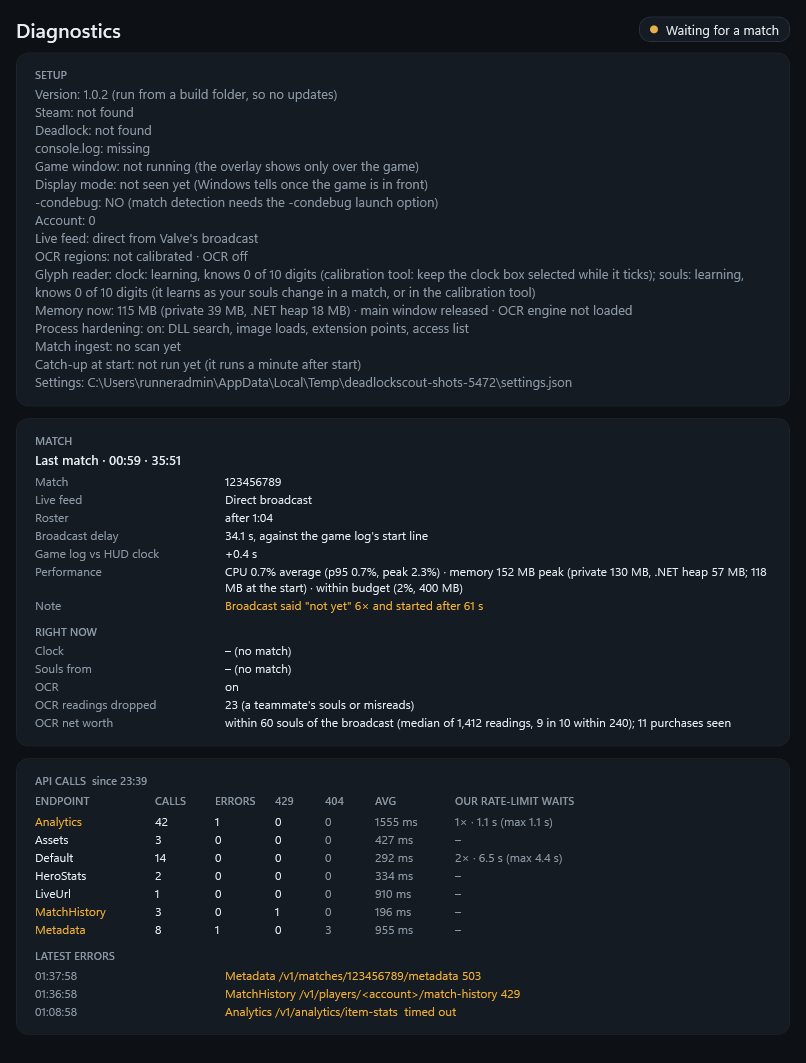
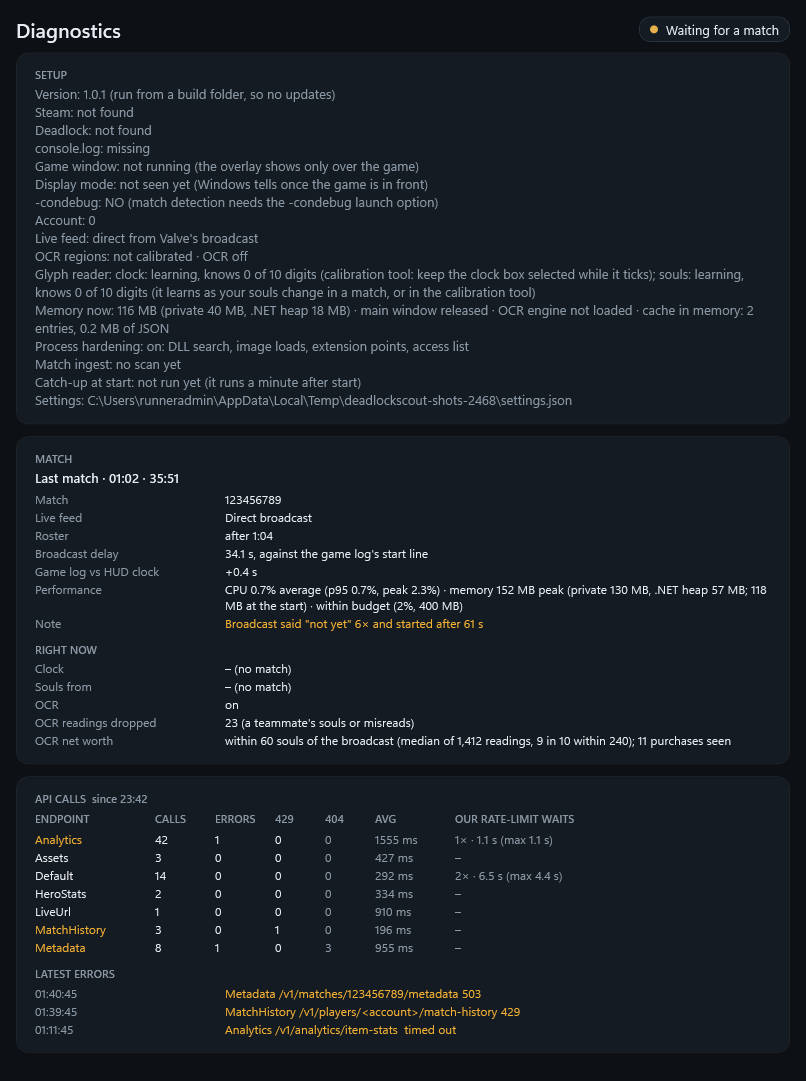
1.0.3: a memory budget for the cache, so the app no longer grows match by match (#205)
* Cache: a memory layer with a budget, so the app no longer grows match by match

Nov 18: the .NET heap peaked at 67, 90 and 131 MB over three matches and
each match started 20-60 MB larger than the one before (back to 277 MB
after a restart). The layered cache kept every entry it ever read or
wrote in memory for the whole session, most of them for ever (match
details, curves, item tables, player stats), with no size limit.

- Each memory entry weighs its JSON's length; the layer holds 16 million
  characters at most and drops a quarter when full; an entry unused for
  15 minutes leaves memory. SQLite keeps everything, so nothing is
  fetched again.
- Diagnostics' memory line says what the cache holds in memory.

Claude-Session: https://claude.ai/code/session_01LSDkBn23Na5vMSKWLtGadZ

* Update app screenshots

---------

diff --git a/src/DeadlockScout.Api/Caching/LayeredCache.cs b/src/DeadlockScout.Api/Caching/LayeredCache.cs
@@ -12,6 +12,12 @@ namespace DeadlockScout.Api.Caching;
 /// <see cref="ICache"/> over an in-process <see cref="IMemoryCache"/> in front of <see cref="SqliteCacheStore"/>.
 /// Concurrent callers for one key share a single in-flight factory; stale-while-revalidate serves an expired entry at
 /// once and refreshes it in the background.
+/// <para>
+/// The memory layer is bounded (1.0.3): each entry weighs its JSON's length, the layer holds at most
+/// <see cref="MemoryBudget"/> of it, and an entry unused for <see cref="MemoryIdle"/> leaves memory (SQLite keeps it, so
+/// nothing is fetched again). Before, every entry stayed for the whole session, most of them for ever: on Nov 18 the
+/// .NET heap peaked at 67, 90 and 131 MB over three matches and the app started each match 20–60 MB larger.
+/// </para>
 /// </summary>
 public sealed class LayeredCache : ICache, IDisposable
 {
@@ -26,7 +32,13 @@ public sealed class LayeredCache : ICache, IDisposable
         public bool IsFresh(DateTimeOffset now) => ExpiresAt is null || ExpiresAt > now;
     }
 
+    /// <summary>The memory layer's budget, in characters of JSON (the objects take about two to three times that).</summary>
+    public const long MemoryBudget = 16_000_000;
+    /// <summary>How long an entry nobody reads stays in memory.</summary>
+    public static readonly TimeSpan MemoryIdle = TimeSpan.FromMinutes(15);
+
     private readonly IMemoryCache _memory;
+    private readonly MemoryCache? _own;
     private readonly SqliteCacheStore _store;
     private readonly IClock _clock;
     private readonly ILogger _log;
@@ -37,7 +49,8 @@ public sealed class LayeredCache : ICache, IDisposable
     {
         _store = store;
         _clock = clock;
-        _memory = memory ?? new MemoryCache(new MemoryCacheOptions { SizeLimit = null });
+        _own = memory is null ? new MemoryCache(new MemoryCacheOptions { SizeLimit = MemoryBudget, CompactionPercentage = 0.25, TrackStatistics = true }) : null;
+        _memory = memory ?? _own!;
         _log = log ?? NullLogger<LayeredCache>.Instance;
     }
 
@@ -63,8 +76,9 @@ public sealed class LayeredCache : ICache, IDisposable
     {
         var now = _clock.UtcNow;
         var env = new Envelope(now, ttl is null ? null : now + ttl.Value, value);
-        _memory.Set(key, env, MemoryOptions(ttl));
-        await _store.SetAsync(new CacheEntry(key, JsonSerializer.Serialize(value, Json), env.FetchedAt, env.ExpiresAt, null), ct).ConfigureAwait(false);
+        var json = JsonSerializer.Serialize(value, Json);
+        _memory.Set(key, env, MemoryOptions(ttl, json.Length));
+        await _store.SetAsync(new CacheEntry(key, json, env.FetchedAt, env.ExpiresAt, null), ct).ConfigureAwait(false);
     }
 
     public async Task<T> GetOrCreateAsync<T>(string key, TimeSpan? ttl, Func<CancellationToken, Task<T>> factory, bool staleWhileRevalidate, CancellationToken ct)
@@ -142,17 +156,22 @@ public sealed class LayeredCache : ICache, IDisposable
             return null;
         }
         env = new Envelope(row.FetchedAt, row.ExpiresAt, value);
-        _memory.Set(key, env, MemoryOptions(row.ExpiresAt is null ? null : row.ExpiresAt - _clock.UtcNow));
+        _memory.Set(key, env, MemoryOptions(row.ExpiresAt is null ? null : row.ExpiresAt - _clock.UtcNow, row.Json.Length));
         return env;
     }
 
-    private static MemoryCacheEntryOptions MemoryOptions(TimeSpan? ttl)
+    private static MemoryCacheEntryOptions MemoryOptions(TimeSpan? ttl, long size)
     {
-        var o = new MemoryCacheEntryOptions();
+        var o = new MemoryCacheEntryOptions { Size = Math.Max(1, size), SlidingExpiration = MemoryIdle };
         // Keep expired entries in memory a little longer so stale-while-revalidate does not have to hit SQLite.
         if (ttl is { } t) o.AbsoluteExpirationRelativeToNow = (t < TimeSpan.Zero ? TimeSpan.Zero : t) + TimeSpan.FromMinutes(5);
         return o;
     }
+
+    /// <summary>"cache in memory: 412 entries, 9.3 MB of JSON" for Diagnostics' memory line; null for an injected memory cache.</summary>
+    public string? MemoryUse => _own?.GetCurrentStatistics() is { } s
+        ? $"cache in memory: {s.CurrentEntryCount} entries, {(s.CurrentEstimatedSize ?? 0) / 1_000_000.0:0.0} MB of JSON"
+        : null;
 
     public void Dispose() => (_memory as IDisposable)?.Dispose();
 }

diff --git a/src/DeadlockScout.App/Services/AppShell.cs b/src/DeadlockScout.App/Services/AppShell.cs
@@ -85,8 +85,9 @@ public sealed class AppShell
                     MatchHistoryService historyService, ItemIcons icons, MatchSession session, CompositeBenchmark benchmark, BuildHintService builds,
                     AudioCuePlayer audio, DiagnosticsLog diagnostics, OcrSoulSource ocrSource, OcrJumpGuard guard, CounterItemService counters,
                     SoulSourceService sources, SaltIngest ingest, UpdateService updates, GlyphStore glyphStore, ILogger<AppShell> log, MarkStore marks,
-                    PostMatchCoordinator coordinator, PlayedMatches played)
+                    PostMatchCoordinator coordinator, PlayedMatches played, DeadlockScout.Core.Abstractions.ICache? cache = null)
     {
+        _cache = cache;
         _marks = marks;
         _coordinator = coordinator;
         _played = played;
@@ -201,13 +202,16 @@ public sealed class AppShell
     /// a player can see what a window, OCR or a match costs by switching it on and off with Diagnostics open (the 1.0
     /// budget is 400 MB).
     /// </summary>
+    private readonly DeadlockScout.Core.Abstractions.ICache? _cache;
+
     private string MemoryNow()
     {
         using var self = Process.GetCurrentProcess();
         static string Mb(long bytes) => $"{bytes / (1024 * 1024)} MB";
         string main = _main is null ? " · main window released" : " · main window open";
         string ocr = WindowsOcr is WindowsMediaOcrEngine w ? (w.Loaded ? " · OCR engine loaded" : " · OCR engine not loaded") : "";
-        return $"{Mb(self.WorkingSet64)} (private {Mb(self.PrivateMemorySize64)}, .NET heap {Mb(GC.GetTotalMemory(false))}){main}{ocr}";
+        string cache = _cache?.MemoryUse is { } c ? $" · {c}" : "";
+        return $"{Mb(self.WorkingSet64)} (private {Mb(self.PrivateMemorySize64)}, .NET heap {Mb(GC.GetTotalMemory(false))}){main}{ocr}{cache}";
     }
 
     /// <summary>"0.1.4 (installed) · update check 14:02: up to date": what runs, and what the updater last found.</summary>

diff --git a/tests/DeadlockScout.Tests/Api/LayeredCacheTests.cs b/tests/DeadlockScout.Tests/Api/LayeredCacheTests.cs
@@ -24,6 +24,22 @@ public class LayeredCacheTests : IDisposable
     }
 
     [Fact]
+    public async Task The_memory_layer_keeps_to_its_budget_and_the_rest_is_read_from_sqlite()
+    {
+        // Twenty entries of a million characters each: the memory layer (16 million) cannot hold them all, and before
+        // 1.0.3 it held everything for the whole session.
+        using var store = Store();
+        using var cache = new LayeredCache(store, _clock);
+        var big = new string('x', 1_000_000);
+        for (int i = 0; i < 20; i++) await cache.SetAsync($"k{i}", big, null, default);
+        var use = cache.MemoryUse!;
+        int entries = int.Parse(System.Text.RegularExpressions.Regex.Match(use, @"(\d+) entries").Groups[1].Value);
+        Assert.InRange(entries, 1, 16);
+        Assert.Contains("MB of JSON", use);
+        for (int i = 0; i < 20; i++) Assert.Equal(big, await cache.GetAsync<string>($"k{i}", default)); // none lost: SQLite has them
+    }
+
+    [Fact]
     public async Task Expired_entries_are_invisible_to_Get_but_served_stale_when_asked()
     {
         using var store = Store();

diff --git a/src/DeadlockScout.Core/Abstractions/ICache.cs b/src/DeadlockScout.Core/Abstractions/ICache.cs
@@ -8,6 +8,9 @@ public interface ICache
     /// <summary>The cached value even when it has expired (null only when there is none), for a page shown at once before it refreshes.</summary>
     Task<T?> GetAnyAsync<T>(string key, CancellationToken ct) => GetAsync<T>(key, ct);
 
+    /// <summary>What the cache holds in memory right now, for Diagnostics; null when it does not say.</summary>
+    string? MemoryUse => null;
+
     /// <summary><paramref name="ttl"/> null means never expires.</summary>
     Task SetAsync<T>(string key, T value, TimeSpan? ttl, CancellationToken ct);
 
